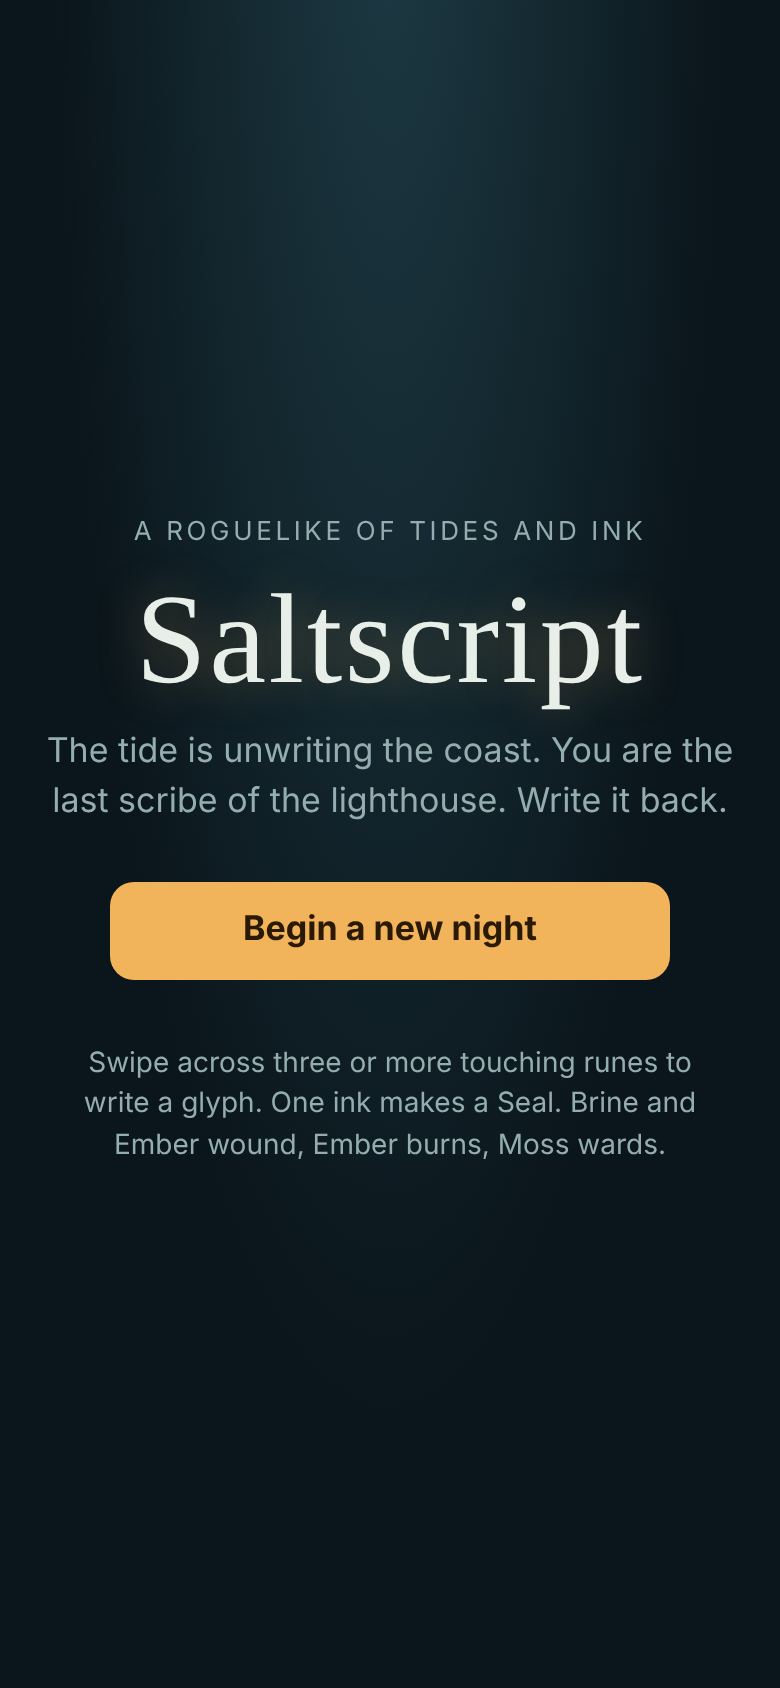
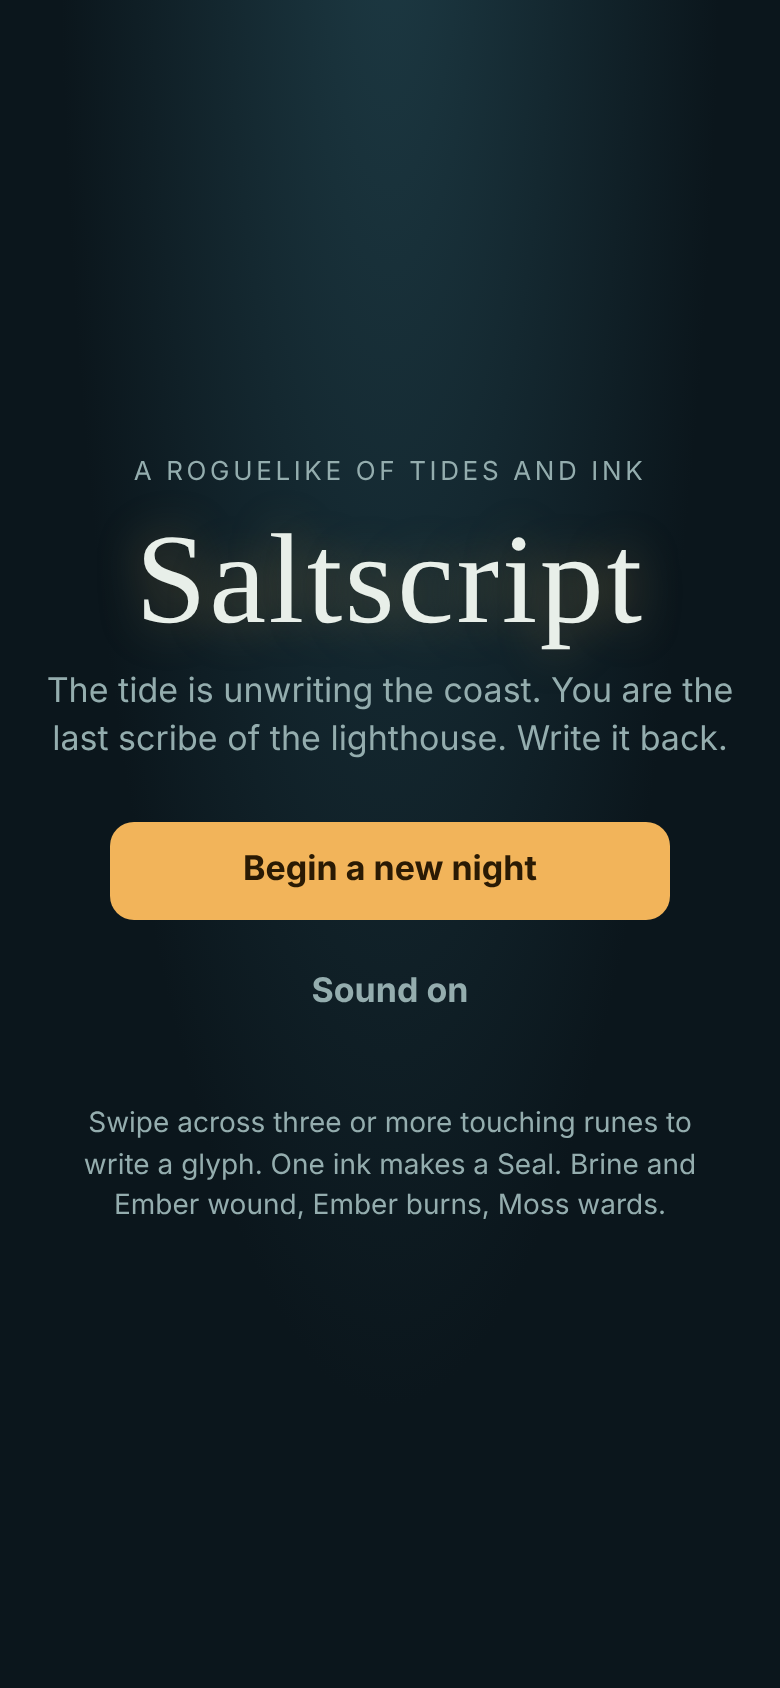
S04 Sound and haptics

Changed region(s): [[0.0615, 0.2773, 0.9538, 0.7393]]

diff --git a/saltscript/src/ui/sound.js b/saltscript/src/ui/sound.js
@@ -1,0 +1,98 @@
+import { loadMuted, saveMuted } from './store.js'
+
+let context = null
+let muted = loadMuted()
+
+export const isMuted = () => muted
+
+export const setMuted = value => {
+  muted = saveMuted(value)
+}
+
+const audio = () => {
+  if (muted || !globalThis.AudioContext) return null
+  context ??= new AudioContext()
+  if (context.state === 'suspended') context.resume()
+  return context
+}
+
+const tone = ({ from, to = from, duration, type = 'sine', volume = 0.15, delay = 0 }) => {
+  const ctx = audio()
+  if (!ctx) return
+  const start = ctx.currentTime + delay
+  const oscillator = ctx.createOscillator()
+  const gain = ctx.createGain()
+  oscillator.type = type
+  oscillator.frequency.setValueAtTime(from, start)
+  oscillator.frequency.exponentialRampToValueAtTime(to, start + duration)
+  gain.gain.setValueAtTime(volume, start)
+  gain.gain.exponentialRampToValueAtTime(0.001, start + duration)
+  oscillator.connect(gain).connect(ctx.destination)
+  oscillator.start(start)
+  oscillator.stop(start + duration)
+}
+
+const noise = ({ duration, band, volume = 0.1, delay = 0 }) => {
+  const ctx = audio()
+  if (!ctx) return
+  const start = ctx.currentTime + delay
+  const buffer = ctx.createBuffer(1, Math.ceil(ctx.sampleRate * duration), ctx.sampleRate)
+  const samples = buffer.getChannelData(0)
+  for (let i = 0; i < samples.length; i++) samples[i] = Math.random() * 2 - 1
+  const source = ctx.createBufferSource()
+  const filter = ctx.createBiquadFilter()
+  const gain = ctx.createGain()
+  source.buffer = buffer
+  filter.type = 'bandpass'
+  filter.frequency.value = band
+  gain.gain.setValueAtTime(volume, start)
+  gain.gain.exponentialRampToValueAtTime(0.001, start + duration)
+  source.connect(filter).connect(gain).connect(ctx.destination)
+  source.start(start)
+}
+
+const buzz = pattern => {
+  if (!muted) globalThis.navigator?.vibrate?.(pattern)
+}
+
+export const scratch = length => noise({ duration: 0.05, band: 1600 + length * 300, volume: 0.12 })
+
+export const stamp = mult => {
+  const depth = 240 / (1 + mult * 0.4)
+  tone({ from: depth, to: depth / 2, duration: 0.18, type: 'triangle', volume: 0.3 })
+  noise({ duration: 0.06, band: 500, volume: 0.15 })
+  buzz(12)
+}
+
+export const wound = () => tone({ from: 320, to: 90, duration: 0.2, type: 'sawtooth', volume: 0.1 })
+
+export const eventSounds = {
+  attack: () => {
+    wound()
+    buzz(40)
+  },
+  ward: () => tone({ from: 300, to: 420, duration: 0.2, volume: 0.1 }),
+  rise: () => tone({ from: 110, to: 220, duration: 0.35, type: 'sawtooth', volume: 0.07 }),
+  burn: () => noise({ duration: 0.35, band: 5000, volume: 0.1 }),
+  salt: () => {
+    for (const delay of [0, 0.07, 0.15, 0.24]) noise({ duration: 0.04, band: 3500, volume: 0.14, delay })
+  },
+}
+
+export const victory = () => {
+  for (const [i, from] of [392, 494, 587, 784].entries()) tone({ from, duration: 0.3, delay: i * 0.11 })
+  buzz([20, 40, 20])
+}
+
+export const defeat = () => {
+  for (const [i, from] of [294, 233, 175].entries()) {
+    tone({ from, to: from * 0.9, duration: 0.5, type: 'triangle', delay: i * 0.25 })
+  }
+  buzz(120)
+}
+
+export const playEvent = event => {
+  if (event.kind !== 'glyph') return eventSounds[event.kind]()
+  stamp(event.glyph.mult)
+  if (event.glyph.damage) wound()
+}

diff --git a/saltscript/src/main.js b/saltscript/src/main.js
@@ -5,6 +5,7 @@ import { act, createRun, markPrice, nodeAt, openLanes, removePrice, runePrice } 
 import { createBoard, numeral } from './ui/board.js'
 import { announce } from './ui/feedback.js'
 import { drawRoutes } from './ui/routes.js'
+import { isMuted, scratch, setMuted } from './ui/sound.js'
 import { loadRun, saveRun } from './ui/store.js'
 
 const $ = id => document.getElementById(id)
@@ -78,7 +79,13 @@ const queueFoe = () => {
   }, foePause)
 }
 
+const renderMute = () => {
+  $('mute').textContent = isMuted() ? 'Sound off' : 'Sound on'
+  $('mute').ariaPressed = String(isMuted())
+}
+
 const renderTitle = () => {
+  renderMute()
   $('continue').hidden = !run || ['victory', 'defeat'].includes(run.screen)
   show('title')
 }
@@ -326,7 +333,10 @@ const extend = event => {
   const cell = board.cellAt(event.clientX, event.clientY)
   if (cell === null) return
   if (cell === path.at(-2)) path = path.slice(0, -1)
-  else if (canExtend(run.combat, path, cell)) path = [...path, cell]
+  else if (canExtend(run.combat, path, cell)) {
+    path = [...path, cell]
+    scratch(path.length)
+  }
   renderPreview(run.combat)
 }
 
@@ -352,6 +362,10 @@ window.addEventListener('resize', () => {
   if (run?.screen === 'map') drawRoutes($('links'), $('floors'), run)
 })
 
+$('mute').onclick = () => {
+  setMuted(!isMuted())
+  renderMute()
+}
 $('new-run').onclick = () => {
   run = saveRun(createRun(Date.now() % 2 ** 31))
   render()

diff --git a/saltscript/test/sound.test.js b/saltscript/test/sound.test.js
@@ -1,0 +1,27 @@
+import assert from 'node:assert/strict'
+import { test } from 'node:test'
+import { enemies } from '../src/core/data.js'
+import { defeat, eventSounds, isMuted, playEvent, scratch, setMuted, victory } from '../src/ui/sound.js'
+
+test('every foe intent has a sound', () => {
+  for (const { intents } of Object.values(enemies)) {
+    for (const [kind] of intents) assert.equal(typeof eventSounds[kind], 'function')
+  }
+  assert.equal(typeof eventSounds.burn, 'function')
+})
+
+test('nothing plays and nothing throws without an audio context', () => {
+  assert.equal(globalThis.AudioContext, undefined)
+  scratch(3)
+  victory()
+  defeat()
+  playEvent({ kind: 'glyph', glyph: { mult: 3, damage: 5 } })
+  for (const kind of Object.keys(eventSounds)) playEvent({ kind })
+})
+
+test('mute is remembered within the session', () => {
+  setMuted(true)
+  assert.equal(isMuted(), true)
+  setMuted(false)
+  assert.equal(isMuted(), false)
+})

diff --git a/saltscript/src/ui/feedback.js b/saltscript/src/ui/feedback.js
@@ -1,3 +1,5 @@
+import { defeat, playEvent, victory } from './sound.js'
+
 const float = (host, text, tone) => {
   const mark = document.createElement('span')
   mark.className = `float ${tone}`
@@ -51,5 +53,10 @@ const reactions = {
 
 export const announce = (before, after) => {
   const stage = { foe: document.getElementById('foe'), you: document.getElementById('you'), before, after }
-  for (const event of after.events) reactions[event.kind](stage, event)
+  for (const event of after.events) {
+    reactions[event.kind](stage, event)
+    playEvent(event)
+  }
+  if (after.status === 'won') victory()
+  if (after.status === 'lost') defeat()
 }

diff --git a/saltscript/index.html b/saltscript/index.html
@@ -20,6 +20,7 @@
       <p class="lede">The tide is unwriting the coast. You are the last scribe of the lighthouse. Write it back.</p>
       <button type="button" id="continue" class="primary" hidden>Continue the night</button>
       <button type="button" id="new-run" class="primary">Begin a new night</button>
+      <button type="button" id="mute" class="ghost"></button>
       <p class="how">Swipe across three or more touching runes to write a glyph. One ink makes a Seal. Brine and Ember wound, Ember burns, Moss wards.</p>
     </section>
 

diff --git a/saltscript/e2e/play.js b/saltscript/e2e/play.js
@@ -37,6 +37,11 @@ const foeSettled = () =>
 try {
   await page.goto(`http://localhost:${port}/`)
   await page.screenshot({ path: `${shots}title.png` })
+  assert.equal(await page.textContent('#mute'), 'Sound on')
+  await page.click('#mute')
+  await page.reload()
+  assert.equal(await page.textContent('#mute'), 'Sound off')
+  await page.click('#mute')
   await page.click('#new-run')
   await page.screenshot({ path: `${shots}map.png` })
   const firstFloorLinks = await page.evaluate(() =>

diff --git a/saltscript/src/ui/store.js b/saltscript/src/ui/store.js
@@ -15,3 +15,20 @@ export const saveRun = run => {
   } catch {}
   return run
 }
+
+const muteKey = 'saltscript.muted'
+
+export const loadMuted = () => {
+  try {
+    return localStorage.getItem(muteKey) === 'true'
+  } catch {
+    return false
+  }
+}
+
+export const saveMuted = muted => {
+  try {
+    localStorage.setItem(muteKey, String(muted))
+  } catch {}
+  return muted
+}

diff --git a/saltscript/BACKLOG.md b/saltscript/BACKLOG.md
@@ -4,10 +4,6 @@ The build agent takes items from the top of **Next**, one commit each. Scheduled
 
 ## Next
 
-### S04 Sound and haptics
-
-WebAudio synthesized sounds: a quill scratch on each rune added to the path (pitch rises with length), a stamp on write that deepens with mult, wound, burn hiss, salt crackle, victory and defeat. Mute toggle on the title, persisted. `navigator.vibrate` guarded. Done when every event has sound, mute persists after reload (e2e) and nothing plays in Node.
-
 ### S05 Balance harness
 
 `src/core/bot.js` gains a human-like policy (random among the top three paths, depth 4, seeded). `npm run balance` prints win rate, floor reached and turns per fight over 50 seeds for both policies. Tune data so the exhaustive bot wins at least 90% of act 1 and the human-like bot 40–60%. Record the table in `docs/balance.md`. Done when a test pins both rates within the bands on 20 seeds.
@@ -59,6 +55,7 @@ axe in e2e on every screen with no serious or critical violations; a tap alterna
 - S01 Playable MVP: map, fights, glyph scoring, rewards, market, rest, shrines, boss, saved runs, e2e (2026-11-02, built in the conversation)
 - S02 Map routes: SVG links behind the nodes, walked trail, unreachable nodes dimmed (2026-11-02)
 - S03 Combat feel: floats, glyph flourish, 600 ms foe pause, salt cracks, reduced motion (2026-11-02)
+- S04 Sound and haptics: synthesized cues per event, persisted mute, guarded vibrate (2026-11-02)
 
 MVP rule: every commit keeps `npm test`, `npm run check` and `npm run e2e` green.
 

diff --git a/saltscript/MEMORY.md b/saltscript/MEMORY.md
@@ -16,3 +16,4 @@ Rewritten by each run; keep it short.
 - `write` no longer runs the foe: at 0 strokes the UI waits `foePause` then dispatches `endTurn`; `bestPath` returns null at 0 strokes, so bots and e2e fall through to `endTurn`
 - A finished fight keeps `run.combat` while `run.screen` has already moved on; `dispatch` holds the combat view for `foePause`, so e2e must wait for the next section to be visible
 - `announce` in `src/ui/feedback.js` maps each `combat.events` kind to its feedback; a new intent needs an entry there
+- `src/ui/sound.js` is synthesized WebAudio; a new event kind needs an entry in `eventSounds` and the test in `test/sound.test.js` enforces it for foe intents
